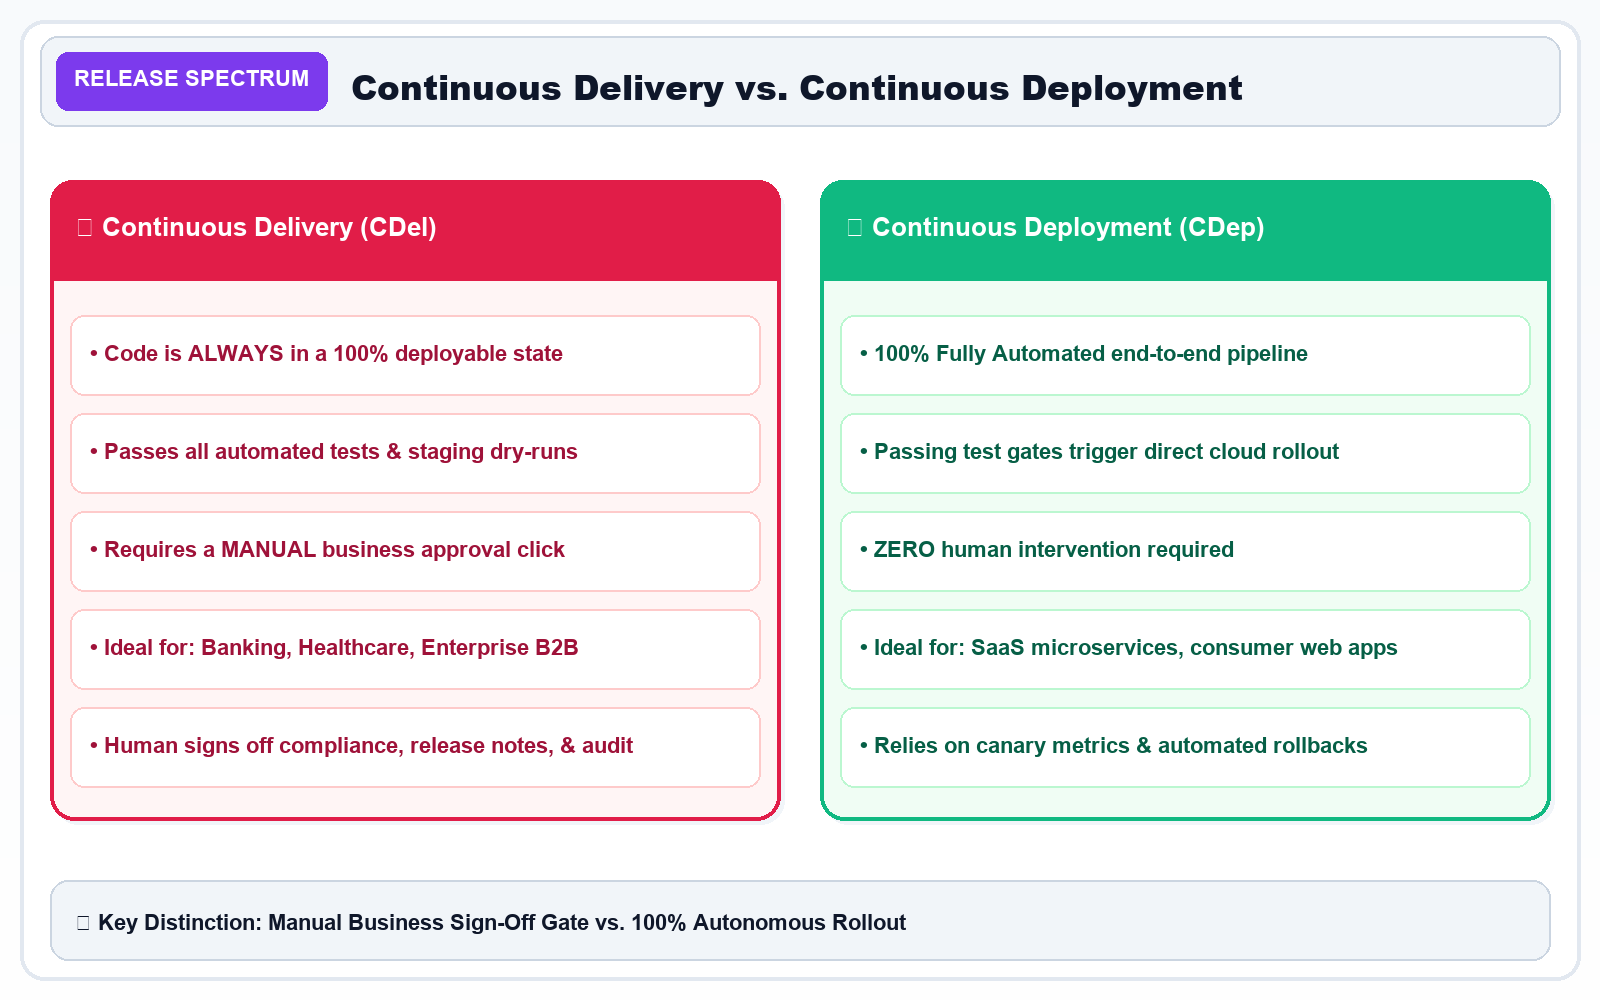
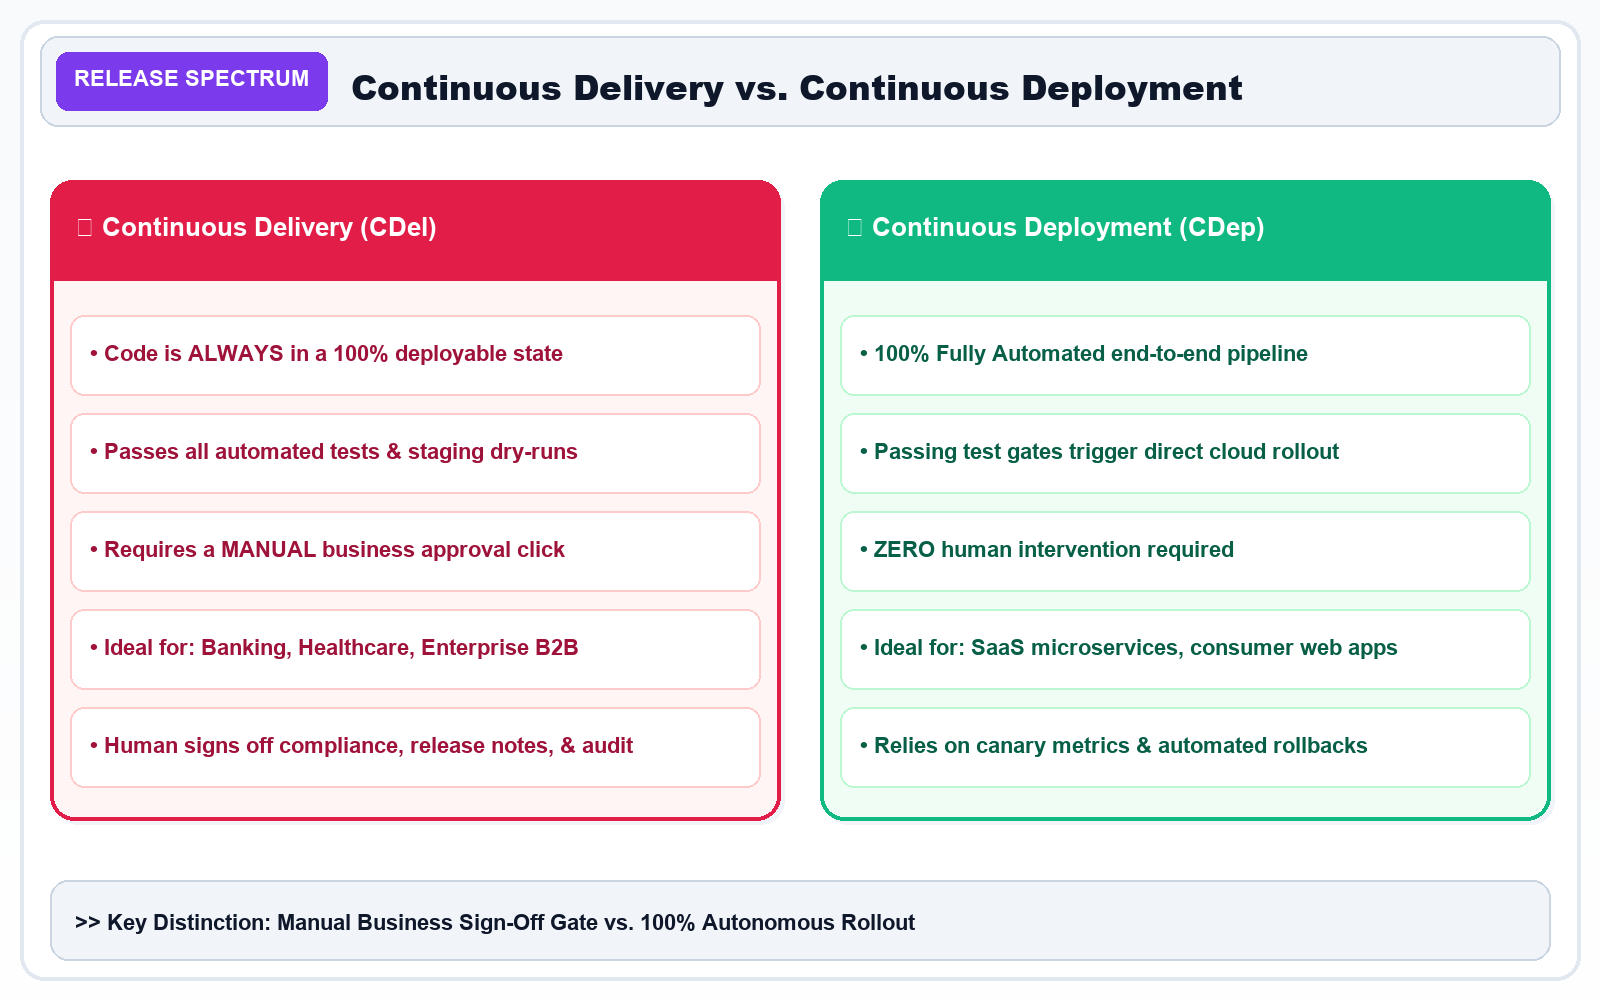
fix(slides): fix text overflow and unicode arrow rendering on slide 9 and diagram images

Changed region(s): [[0.0312, 0.899, 0.5938, 0.93]]

diff --git a/scripts/generate_all_slide_images.py b/scripts/generate_all_slide_images.py
@@ -35,6 +35,32 @@ font_body_bold = get_font(FONT_BOLD_PATH, 22)
 font_badge = get_font(FONT_BOLD_PATH, 20)
 font_footer = get_font(FONT_BOLD_PATH, 22)
 
+def draw_wrapped_text(d, text, x, y, max_width, font, fill, line_spacing=8):
+    words = text.split()
+    lines = []
+    current_line = []
+    for word in words:
+        test_line = ' '.join(current_line + [word])
+        bbox = d.textbbox((0, 0), test_line, font=font)
+        if bbox[2] - bbox[0] <= max_width:
+            current_line.append(word)
+        else:
+            if current_line:
+                lines.append(' '.join(current_line))
+                current_line = [word]
+            else:
+                lines.append(word)
+                current_line = []
+    if current_line:
+        lines.append(' '.join(current_line))
+    
+    curr_y = y
+    for line in lines:
+        d.text((x, curr_y), line, font=font, fill=fill)
+        bbox = d.textbbox((0, 0), line, font=font)
+        curr_y += (bbox[3] - bbox[1]) + line_spacing
+    return curr_y
+
 def draw_base_card(title, category, badge_color=(37, 99, 235)):
     img = Image.new('RGB', (W, H), color=(255, 255, 255))
     d = ImageDraw.Draw(img)
@@ -86,7 +112,7 @@ slides_configs = [
         "category": "History & Problem",
         "color": (225, 29, 72),
         "draw": "comparison_split",
-        "left_title": "❌ The Old Way: Manual 'Integration Hell'",
+        "left_title": "[OLD WAY] Manual 'Integration Hell'",
         "left_items": [
             "• 6-Month Big Bang Releases (High Risk)",
             "• 10,000-Line Terrifying Merge Conflicts",
@@ -94,7 +120,7 @@ slides_configs = [
             "• 2:00 AM SSH & FTP Manual Deployments",
             "• Catastrophic Outages on Launch Day"
         ],
-        "right_title": "✅ The CI/CD Way: Automated Continuous Flow",
+        "right_title": "[CI/CD] Automated Continuous Flow",
         "right_items": [
             "• Small Atomic Commits Multiple Times Daily",
             "• Automated Test Suites Catch Bugs in < 5 Mins",
@@ -188,7 +214,7 @@ slides_configs = [
         "category": "Culture & Tooling",
         "color": (5, 150, 105),
         "draw": "comparison_split",
-        "left_title": "🧱 The Old 'Wall of Confusion'",
+        "left_title": "The Old 'Wall of Confusion'",
         "left_items": [
             "• Developers rewarded for speed & frequent changes",
             "• Operations rewarded for system stability & uptime",
@@ -196,7 +222,7 @@ slides_configs = [
             "• Ops blamed when unvetted code crashes server",
             "• Finger-pointing, siloed friction, and blame games"
         ],
-        "right_title": "🤝 The DevOps Unified Culture",
+        "right_title": "The DevOps Unified Culture",
         "right_items": [
             "• Shared responsibility for code AND production uptime",
             "• 'You build it, you run it' (Werner Vogels, Amazon)",
@@ -218,7 +244,7 @@ slides_configs = [
             ("M - MEASUREMENT", "DORA Metrics: Lead Time, Deploy Frequency, MTTR, Change Failure Rate", (245, 158, 11)),
             ("S - SHARING", "Cross-pollination of knowledge and transparent documentation", (139, 92, 246))
         ],
-        "footer_badge": "Continuous Feedback Loop: Plan ➔ Code ➔ Build ➔ Test ➔ Release ➔ Deploy ➔ Operate ➔ Monitor"
+        "footer_badge": "Continuous Feedback Loop: Plan -> Code -> Build -> Test -> Release -> Deploy -> Operate -> Monitor"
     },
     {
         "id": 10,
@@ -269,7 +295,7 @@ slides_configs = [
             ("1. Event Trigger", "git push, pull_request, schedule, workflow_dispatch waking up pipeline", (37, 99, 235)),
             ("2. GitHub Runner", "Ephemeral fresh VM (Ubuntu, macOS, Windows) spun up in seconds", (14, 165, 233)),
             ("3. Jobs (Parallel)", "Independent job containers running concurrently across runner pool", (139, 92, 246)),
-            ("4. Steps (Sequential)", "Check out repo ➔ Set up Node/Python ➔ Run tests ➔ Build artifact", (16, 185, 129))
+            ("4. Steps (Sequential)", "Check out repo -> Set up Node/Python -> Run tests -> Build artifact", (16, 185, 129))
         ],
         "footer_badge": "Ephemeral Security: Every job runs inside an isolated clean virtual machine that is destroyed after use"
     },
@@ -315,7 +341,7 @@ slides_configs = [
             ("4. AWS ALB", "Load Balancer", "Zero-Downtime Live", (16, 185, 129)),
             ("5. CloudWatch", "Telemetry & Alarms", "Auto-Rollback OK", (225, 29, 72))
         ],
-        "footer_badge": "AWS Production Architecture: GitHub Actions OIDC ➔ Amazon ECR ➔ Amazon ECS Fargate ➔ ALB Live (200 OK)"
+        "footer_badge": "AWS Production Architecture: GitHub Actions OIDC -> Amazon ECR -> Amazon ECS Fargate -> ALB Live (200 OK)"
     },
     {
         "id": 17,
@@ -366,7 +392,7 @@ slides_configs = [
             ("2. GitHub CI", "PyTest & Security", "100% Quality Pass", (14, 165, 233)),
             ("3. Docker Build", "Multi-stage Image", "Minimal 45MB Image", (139, 92, 246)),
             ("4. Push to ECR", "Amazon ECR Registry", "Secure AWS Storage", (245, 158, 11)),
-            ("5. Live on ECS", "Amazon ECS Fargate", "Zero-Downtime Live ✓", (16, 185, 129))
+            ("5. Live on ECS", "Amazon ECS Fargate", "Zero-Downtime Live [OK]", (16, 185, 129))
         ],
         "footer_badge": "Full Project Delivery: Code push to live high-availability AWS Cloud in under 4 minutes"
     },
@@ -530,7 +556,7 @@ for cfg in slides_configs:
             
             # Card Body
             d.rounded_rectangle([(gx + 20, gy + 105), (gx + gw - 20, gy + gh - 20)], radius=14, fill=(248, 250, 252), outline=(226, 232, 240), width=2)
-            d.text((gx + 35, gy + 140), desc, fill=(30, 41, 59), font=font_body_bold)
+            draw_wrapped_text(d, desc, gx + 35, gy + 125, gw - 70, font_body_bold, (30, 41, 59), line_spacing=10)
 
     # 5. ACTIONS ARCH (Slides 13, 14)
     elif cfg["draw"] == "actions_arch":
@@ -554,7 +580,7 @@ for cfg in slides_configs:
 
     # Bottom summary footer badge
     d.rounded_rectangle([(50, H - 120), (W - 50, H - 40)], radius=18, fill=(241, 245, 249), outline=(203, 213, 225), width=2)
-    d.text((75, H - 90), f"⚡ {cfg['footer_badge']}", fill=(15, 23, 42), font=font_footer)
+    d.text((75, H - 90), f">> {cfg['footer_badge']}", fill=(15, 23, 42), font=font_footer)
 
     out_path = f"public/slides/slide_{cfg['id']}.png"
     img.save(out_path, quality=95)
